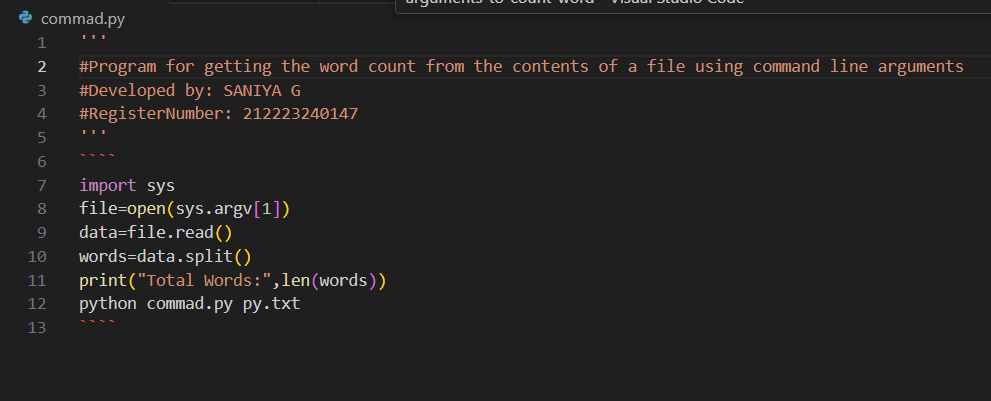
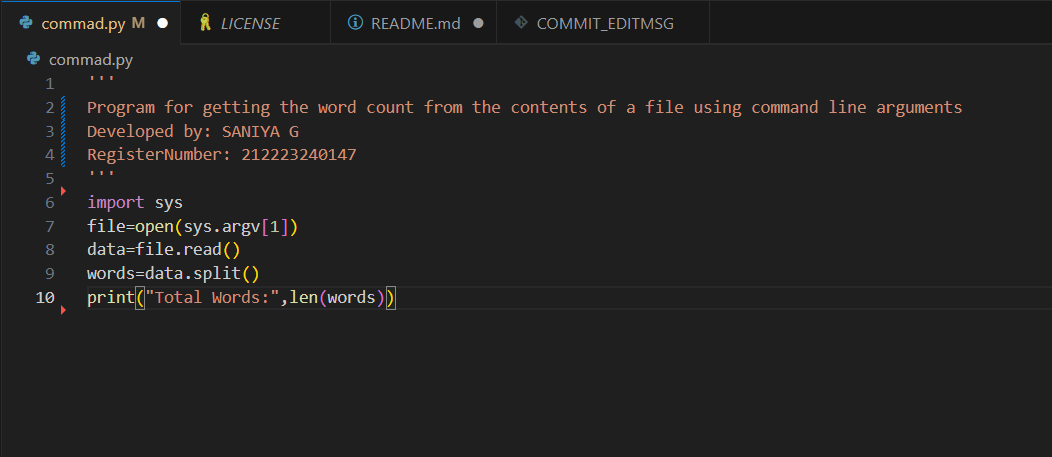
done

diff --git a/commad.py b/commad.py
@@ -1,13 +1,10 @@
 '''
-#Program for getting the word count from the contents of a file using command line arguments
-#Developed by: SANIYA G
-#RegisterNumber: 212223240147
+Program for getting the word count from the contents of a file using command line arguments
+Developed by: SANIYA G
+RegisterNumber: 212223240147
 '''
-````
 import sys
 file=open(sys.argv[1])
 data=file.read()
 words=data.split()
 print("Total Words:",len(words))
-python commad.py py.txt
-````

diff --git a/README.md b/README.md
@@ -37,7 +37,7 @@ file=open(sys.argv[1])
 data=file.read()
 words=data.split()
 print("Total Words:",len(words))
-python commad.py py.txt
+
 ````
 ### OUTPUT:
 ![Alt text](1.png)
